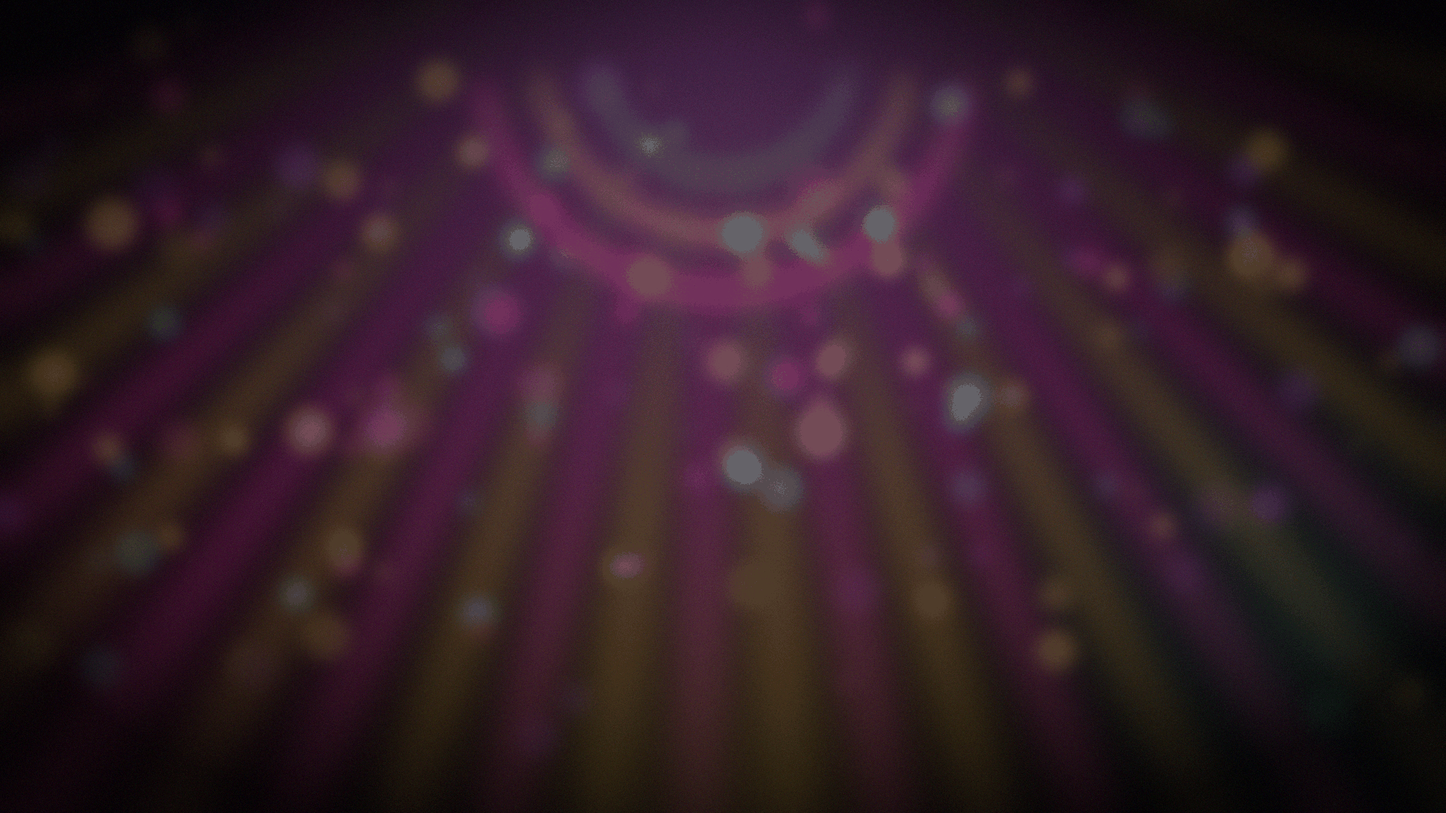
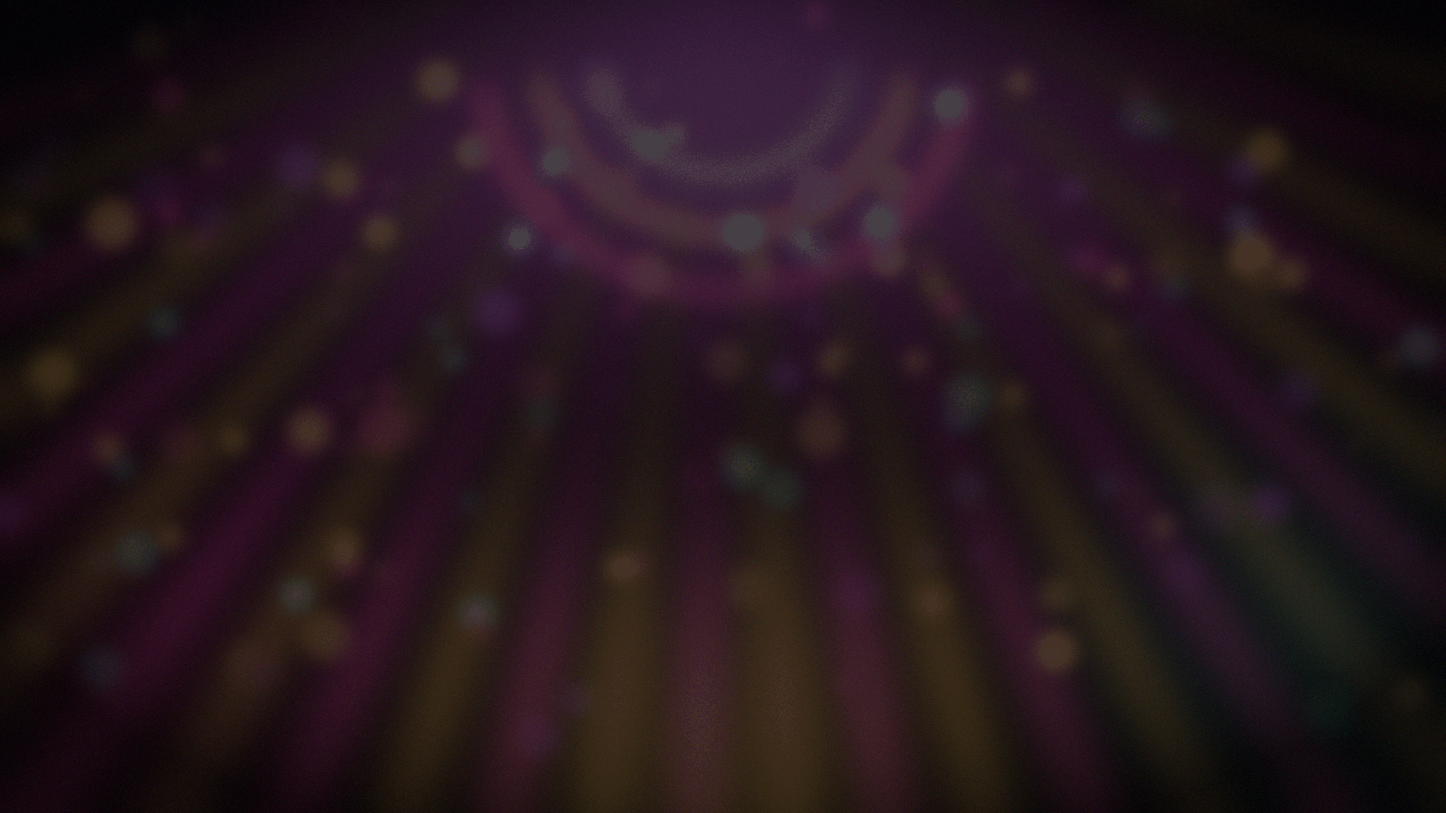
Darken the lobby backdrop where the overworld centres its prose
The first tuning protected the outer bands, which is where the combat UI
writes — but Screen::spawn uses justify_content: Center, so prose lands in the
vertical middle, straight across the brightest part of the sunburst. Measured
2.33:1 against INK, well under what 20px text needs.

Add a scrim with horizontal as well as vertical falloff, so the middle drops to
3.59:1 while the marquee keeps its colour at the top and down both edges. Each
backdrop now reports contrast for the zone its own text actually occupies
rather than a shared one.

Claude-Session: https://claude.ai/code/session_019SDQrzjBYWJnjXPd6ZhgSd

Changed region(s): [[0.125, 0.1528, 0.8125, 0.7333], [0.8438, 0.3056, 0.875, 0.3361], [0.25, 0.275, 0.2812, 0.3056]]

diff --git a/tools/gen_backdrops.py b/tools/gen_backdrops.py
@@ -99,6 +99,20 @@ def protect_text_bands(arr):
     return arr * (0.68 + 0.32 * np.sin(band * np.pi / 2) ** 2)[..., None]
 
 
+def prose_scrim(arr):
+    """Darken the middle of the lobby, where the overworld centres its prose.
+
+    `Screen::spawn` uses `justify_content: Center`, so the text lands in the
+    vertical middle — not in the outer bands the combat screen writes into.
+    The falloff is horizontal as well as vertical so the marquee keeps its
+    colour at the top and down both edges.
+    """
+    x, y = coords()
+    band = np.exp(-(((y - H * 0.52) / (H * 0.30)) ** 2))
+    horiz = np.exp(-(((x - W / 2) / (W * 0.46)) ** 2))
+    return arr * (1.0 - 0.62 * band * horiz)[..., None]
+
+
 # --- Combat ------------------------------------------------------------------
 
 
@@ -229,9 +243,7 @@ def lobby():
     base = add_glow(base, radial(W * 0.08, H * 0.86, W * 0.34, 2.3), MAGENTA, 0.34)
     base = add_glow(base, radial(W * 0.92, H * 0.80, W * 0.34, 2.3), CYAN, 0.30)
 
-    # Prose runs down the middle of this screen, so keep the lower half dark.
-    y = coords()[1]
-    base = base * (1.0 - 0.34 * np.clip((y - H * 0.46) / (H * 0.54), 0, 1) ** 1.5)[..., None]
+    base = prose_scrim(base)
 
     base = vignette(base, strength=0.80)
     return grain(base * 0.94)
@@ -247,11 +259,20 @@ def main():
         # .convert("RGB") matters: a palettised PNG reads back as indices.
         arr = np.asarray(Image.open(path).convert("RGB"), dtype=np.float32) / 255
         lum = 0.2126 * arr[..., 0] + 0.7152 * arr[..., 1] + 0.0722 * arr[..., 2]
-        bands = np.concatenate([lum[40:150].ravel(), lum[H - 150 : H - 40].ravel()])
+        # Combat writes into the outer bands; the overworld centres its prose.
+        # Each backdrop is judged where its own text actually lands.
+        if name == "combat":
+            zone = np.concatenate([lum[40:150].ravel(), lum[H - 150 : H - 40].ravel()])
+            label = "outer bands"
+        else:
+            zone = lum[300:780].ravel()
+            label = "centre"
+        text_luma = 0.871 if name == "lobby" else 0.78
+        p99 = np.percentile(zone, 99)
         print(
             f"{name:7s} {path.stat().st_size / 1024:6.0f} KB   "
-            f"overall p99 {np.percentile(lum, 99):.3f}   "
-            f"text-band p99 {np.percentile(bands, 99):.3f}"
+            f"{label:11s} p99 {p99:.3f}   "
+            f"text contrast {(text_luma + 0.05) / (p99 + 0.05):.2f}:1"
         )
 
 
